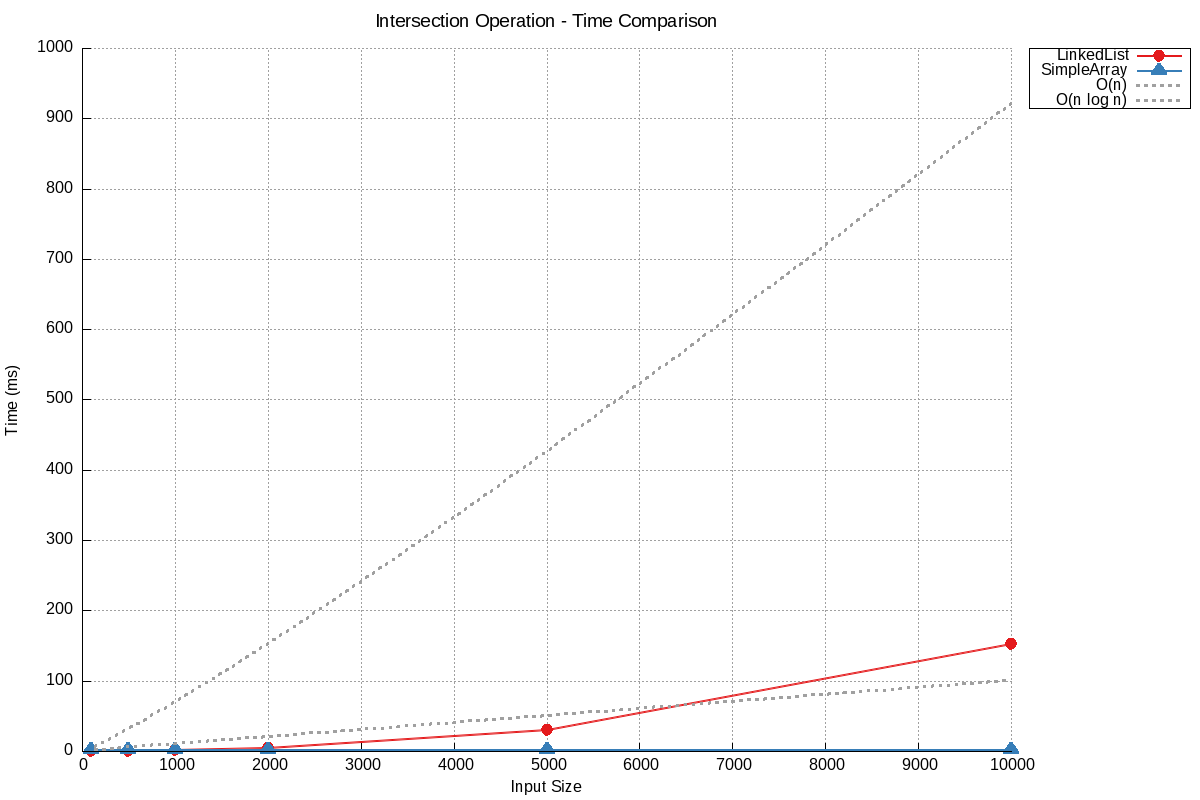
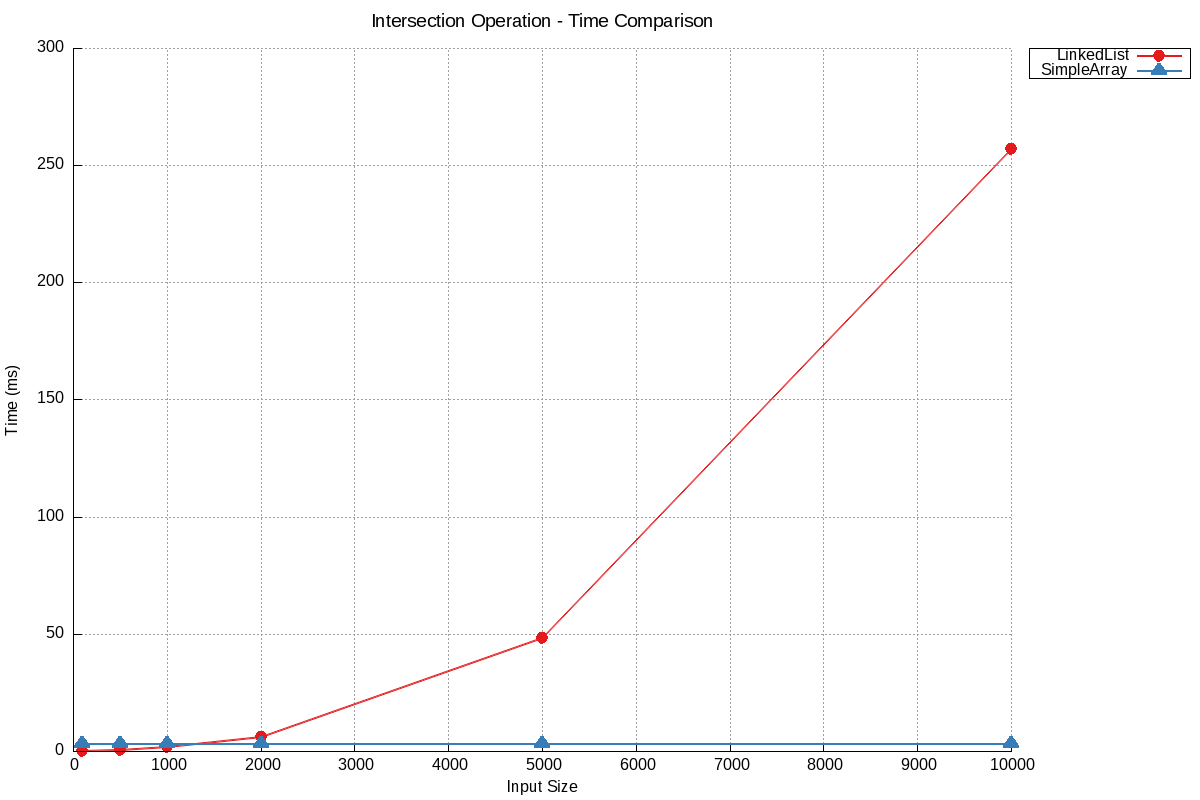
feat(set): small changes

diff --git a/set/benchmark.cpp b/set/benchmark.cpp
@@ -330,14 +330,9 @@ void generateComparisonScripts() {
   insertTimeScript << "set title 'Insert Operation - Time Comparison' font 'Arial,14'\n";
   insertTimeScript << "set xlabel 'Input Size' font 'Arial,12'\n";
   insertTimeScript << "set ylabel 'Time (ms)' font 'Arial,12'\n";
-  insertTimeScript << "# Funkcje referencyjne dla złożoności\n";
-  insertTimeScript << "f(x) = 0.01 * x\n";
-  insertTimeScript << "g(x) = 0.01 * x * log(x)\n";
   insertTimeScript << "plot 'data/time_LinkedList_Insert.txt' using 1:2 with linespoints ls 1 title 'LinkedList', \\\n";
   insertTimeScript << "     'data/time_SimpleArray_Insert.txt' using 1:2 with linespoints ls 2 title 'SimpleArray', \\\n";
-  insertTimeScript << "     'data/time_Dictionary_Insert.txt' using 1:2 with linespoints ls 3 title 'Dictionary', \\\n";
-  insertTimeScript << "     f(x) title 'O(n)' with lines lt 0 lw 2, \\\n";
-  insertTimeScript << "     g(x) title 'O(n log n)' with lines lt 0 lw 2\n";
+  insertTimeScript << "     'data/time_Dictionary_Insert.txt' using 1:2 with linespoints ls 3 title 'Dictionary'\n";
   insertTimeScript.close();
 
   std::ofstream searchTimeScript("data/plot_search_time.gnu");
@@ -354,14 +349,9 @@ void generateComparisonScripts() {
   searchTimeScript << "set title 'Search Operation - Time Comparison' font 'Arial,14'\n";
   searchTimeScript << "set xlabel 'Input Size' font 'Arial,12'\n";
   searchTimeScript << "set ylabel 'Time (ms)' font 'Arial,12'\n";
-  searchTimeScript << "# Funkcje referencyjne dla złożoności\n";
-  searchTimeScript << "f(x) = 0.001 * x\n";
-  searchTimeScript << "g(x) = 0.001 * x * log(x)\n";
   searchTimeScript << "plot 'data/time_LinkedList_Search.txt' using 1:2 with linespoints ls 1 title 'LinkedList', \\\n";
   searchTimeScript << "     'data/time_SimpleArray_Search.txt' using 1:2 with linespoints ls 2 title 'SimpleArray', \\\n";
-  searchTimeScript << "     'data/time_Dictionary_Search.txt' using 1:2 with linespoints ls 3 title 'Dictionary', \\\n";
-  searchTimeScript << "     f(x) title 'O(n)' with lines lt 0 lw 2, \\\n";
-  searchTimeScript << "     g(x) title 'O(n log n)' with lines lt 0 lw 2\n";
+  searchTimeScript << "     'data/time_Dictionary_Search.txt' using 1:2 with linespoints ls 3 title 'Dictionary'\n";
   searchTimeScript.close();
 
   std::ofstream removeTimeScript("data/plot_remove_time.gnu");
@@ -378,14 +368,9 @@ void generateComparisonScripts() {
   removeTimeScript << "set title 'Remove Operation - Time Comparison' font 'Arial,14'\n";
   removeTimeScript << "set xlabel 'Input Size' font 'Arial,12'\n";
   removeTimeScript << "set ylabel 'Time (ms)' font 'Arial,12'\n";
-  removeTimeScript << "# Funkcje referencyjne dla złożoności\n";
-  removeTimeScript << "f(x) = 0.001 * x\n";
-  removeTimeScript << "g(x) = 0.001 * x * log(x)\n";
   removeTimeScript << "plot 'data/time_LinkedList_Remove.txt' using 1:2 with linespoints ls 1 title 'LinkedList', \\\n";
   removeTimeScript << "     'data/time_SimpleArray_Remove.txt' using 1:2 with linespoints ls 2 title 'SimpleArray', \\\n";
-  removeTimeScript << "     'data/time_Dictionary_Remove.txt' using 1:2 with linespoints ls 3 title 'Dictionary', \\\n";
-  removeTimeScript << "     f(x) title 'O(n)' with lines lt 0 lw 2, \\\n";
-  removeTimeScript << "     g(x) title 'O(n log n)' with lines lt 0 lw 2\n";
+  removeTimeScript << "     'data/time_Dictionary_Remove.txt' using 1:2 with linespoints ls 3 title 'Dictionary'\n";
   removeTimeScript.close();
 
   std::ofstream unionTimeScript("data/plot_union_time.gnu");
@@ -401,13 +386,8 @@ void generateComparisonScripts() {
   unionTimeScript << "set title 'Union Operation - Time Comparison' font 'Arial,14'\n";
   unionTimeScript << "set xlabel 'Input Size' font 'Arial,12'\n";
   unionTimeScript << "set ylabel 'Time (ms)' font 'Arial,12'\n";
-  unionTimeScript << "# Funkcje referencyjne dla złożoności\n";
-  unionTimeScript << "f(x) = 0.01 * x\n";
-  unionTimeScript << "g(x) = 0.01 * x * log(x)\n";
   unionTimeScript << "plot 'data/time_LinkedList_Union.txt' using 1:2 with linespoints ls 1 title 'LinkedList', \\\n";
-  unionTimeScript << "     'data/time_SimpleArray_Union.txt' using 1:2 with linespoints ls 2 title 'SimpleArray', \\\n";
-  unionTimeScript << "     f(x) title 'O(n)' with lines lt 0 lw 2, \\\n";
-  unionTimeScript << "     g(x) title 'O(n log n)' with lines lt 0 lw 2\n";
+  unionTimeScript << "     'data/time_SimpleArray_Union.txt' using 1:2 with linespoints ls 2 title 'SimpleArray'\n";
   unionTimeScript.close();
 
   std::ofstream intersectionTimeScript("data/plot_intersection_time.gnu");
@@ -423,13 +403,8 @@ void generateComparisonScripts() {
   intersectionTimeScript << "set title 'Intersection Operation - Time Comparison' font 'Arial,14'\n";
   intersectionTimeScript << "set xlabel 'Input Size' font 'Arial,12'\n";
   intersectionTimeScript << "set ylabel 'Time (ms)' font 'Arial,12'\n";
-  intersectionTimeScript << "# Funkcje referencyjne dla złożoności\n";
-  intersectionTimeScript << "f(x) = 0.01 * x\n";
-  intersectionTimeScript << "g(x) = 0.01 * x * log(x)\n";
   intersectionTimeScript << "plot 'data/time_LinkedList_Intersection.txt' using 1:2 with linespoints ls 1 title 'LinkedList', \\\n";
-  intersectionTimeScript << "     'data/time_SimpleArray_Intersection.txt' using 1:2 with linespoints ls 2 title 'SimpleArray', \\\n";
-  intersectionTimeScript << "     f(x) title 'O(n)' with lines lt 0 lw 2, \\\n";
-  intersectionTimeScript << "     g(x) title 'O(n log n)' with lines lt 0 lw 2\n";
+  intersectionTimeScript << "     'data/time_SimpleArray_Intersection.txt' using 1:2 with linespoints ls 2 title 'SimpleArray'\n";
   intersectionTimeScript.close();
 
   std::ofstream insertMemoryScript("data/plot_insert_memory.gnu");
@@ -446,14 +421,9 @@ void generateComparisonScripts() {
   insertMemoryScript << "set title 'Insert Operation - Memory Comparison' font 'Arial,14'\n";
   insertMemoryScript << "set xlabel 'Input Size' font 'Arial,12'\n";
   insertMemoryScript << "set ylabel 'Memory (KB)' font 'Arial,12'\n";
-  insertMemoryScript << "# Funkcje referencyjne dla złożoności pamięciowej\n";
-  insertMemoryScript << "f(x) = 0.1 * x\n";
-  insertMemoryScript << "g(x) = 0.5 * x\n";
   insertMemoryScript << "plot 'data/memory_LinkedList_Insert.txt' using 1:2 with linespoints ls 1 title 'LinkedList', \\\n";
   insertMemoryScript << "     'data/memory_SimpleArray_Insert.txt' using 1:2 with linespoints ls 2 title 'SimpleArray', \\\n";
-  insertMemoryScript << "     'data/memory_Dictionary_Insert.txt' using 1:2 with linespoints ls 3 title 'Dictionary', \\\n";
-  insertMemoryScript << "     f(x) title 'O(n) - niskie zużycie' with lines lt 0 lw 2, \\\n";
-  insertMemoryScript << "     g(x) title 'O(n) - wysokie zużycie' with lines lt 0 lw 2\n";
+  insertMemoryScript << "     'data/memory_Dictionary_Insert.txt' using 1:2 with linespoints ls 3 title 'Dictionary'\n";
   insertMemoryScript.close();
 
   std::ofstream logTimeScript("data/plot_log_time.gnu");
@@ -471,14 +441,9 @@ void generateComparisonScripts() {
   logTimeScript << "set title 'Insert Operation - Log Scale Time Comparison' font 'Arial,14'\n";
   logTimeScript << "set xlabel 'Input Size (log scale)' font 'Arial,12'\n";
   logTimeScript << "set ylabel 'Time (ms) (log scale)' font 'Arial,12'\n";
-  logTimeScript << "f(x) = 0.01 * x\n";
-  logTimeScript << "g(x) = 0.01 * x * log(x)\n";
   logTimeScript << "plot 'data/log_LinkedList_Insert.txt' using 1:($2 > 0 ? $2 : 0.001) with linespoints ls 1 title 'LinkedList', \\\n";
   logTimeScript << "     'data/log_SimpleArray_Insert.txt' using 1:($2 > 0 ? $2 : 0.001) with linespoints ls 2 title 'SimpleArray', \\\n";
-  logTimeScript << "     'data/log_Dictionary_Insert.txt' using 1:($2 > 0 ? $2 : 0.001) with linespoints ls 3 title 'Dictionary', \\\n";
-  logTimeScript << "     f(x) title 'O(n)' with lines lt 0 lw 2, \\\n";
-  logTimeScript << "     g(x) title 'O(n log n)' with lines lt 0 lw 2\n";
-  logTimeScript << "unset logscale\n";
+  logTimeScript << "     'data/log_Dictionary_Insert.txt' using 1:($2 > 0 ? $2 : 0.001) with linespoints ls 3 title 'Dictionary'\n";
   logTimeScript.close();
 
   std::ofstream linkedAllScript("data/plot_linked_all.gnu");
@@ -497,16 +462,11 @@ void generateComparisonScripts() {
   linkedAllScript << "set title 'LinkedList - All Operations Comparison' font 'Arial,14'\n";
   linkedAllScript << "set xlabel 'Input Size' font 'Arial,12'\n";
   linkedAllScript << "set ylabel 'Time (ms)' font 'Arial,12'\n";
-  linkedAllScript << "# Funkcje referencyjne dla złożoności\n";
-  linkedAllScript << "f(x) = 0.01 * x\n";
-  linkedAllScript << "g(x) = 0.01 * x * log(x)\n";
   linkedAllScript << "plot 'data/time_LinkedList_Insert.txt' using 1:2 with linespoints ls 1 title 'Insert', \\\n";
   linkedAllScript << "     'data/time_LinkedList_Search.txt' using 1:2 with linespoints ls 2 title 'Search', \\\n";
   linkedAllScript << "     'data/time_LinkedList_Remove.txt' using 1:2 with linespoints ls 3 title 'Remove', \\\n";
   linkedAllScript << "     'data/time_LinkedList_Union.txt' using 1:2 with linespoints ls 4 title 'Union', \\\n";
-  linkedAllScript << "     'data/time_LinkedList_Intersection.txt' using 1:2 with linespoints ls 5 title 'Intersection', \\\n";
-  linkedAllScript << "     f(x) title 'O(n)' with lines lt 0 lw 2, \\\n";
-  linkedAllScript << "     g(x) title 'O(n log n)' with lines lt 0 lw 2\n";
+  linkedAllScript << "     'data/time_LinkedList_Intersection.txt' using 1:2 with linespoints ls 5 title 'Intersection'\n";
   linkedAllScript.close();
 
   std::ofstream simpleAllScript("data/plot_simple_all.gnu");
@@ -525,16 +485,11 @@ void generateComparisonScripts() {
   simpleAllScript << "set title 'SimpleArray - All Operations Comparison' font 'Arial,14'\n";
   simpleAllScript << "set xlabel 'Input Size' font 'Arial,12'\n";
   simpleAllScript << "set ylabel 'Time (ms)' font 'Arial,12'\n";
-  simpleAllScript << "# Funkcje referencyjne dla złożoności\n";
-  simpleAllScript << "f(x) = 0.01 * x\n";
-  simpleAllScript << "g(x) = 0.01 * x * log(x)\n";
   simpleAllScript << "plot 'data/time_SimpleArray_Insert.txt' using 1:2 with linespoints ls 1 title 'Insert', \\\n";
   simpleAllScript << "     'data/time_SimpleArray_Search.txt' using 1:2 with linespoints ls 2 title 'Search', \\\n";
   simpleAllScript << "     'data/time_SimpleArray_Remove.txt' using 1:2 with linespoints ls 3 title 'Remove', \\\n";
   simpleAllScript << "     'data/time_SimpleArray_Union.txt' using 1:2 with linespoints ls 4 title 'Union', \\\n";
-  simpleAllScript << "     'data/time_SimpleArray_Intersection.txt' using 1:2 with linespoints ls 5 title 'Intersection', \\\n";
-  simpleAllScript << "     f(x) title 'O(n)' with lines lt 0 lw 2, \\\n";
-  simpleAllScript << "     g(x) title 'O(n log n)' with lines lt 0 lw 2\n";
+  simpleAllScript << "     'data/time_SimpleArray_Intersection.txt' using 1:2 with linespoints ls 5 title 'Intersection'\n";
   simpleAllScript.close();
 }
 
